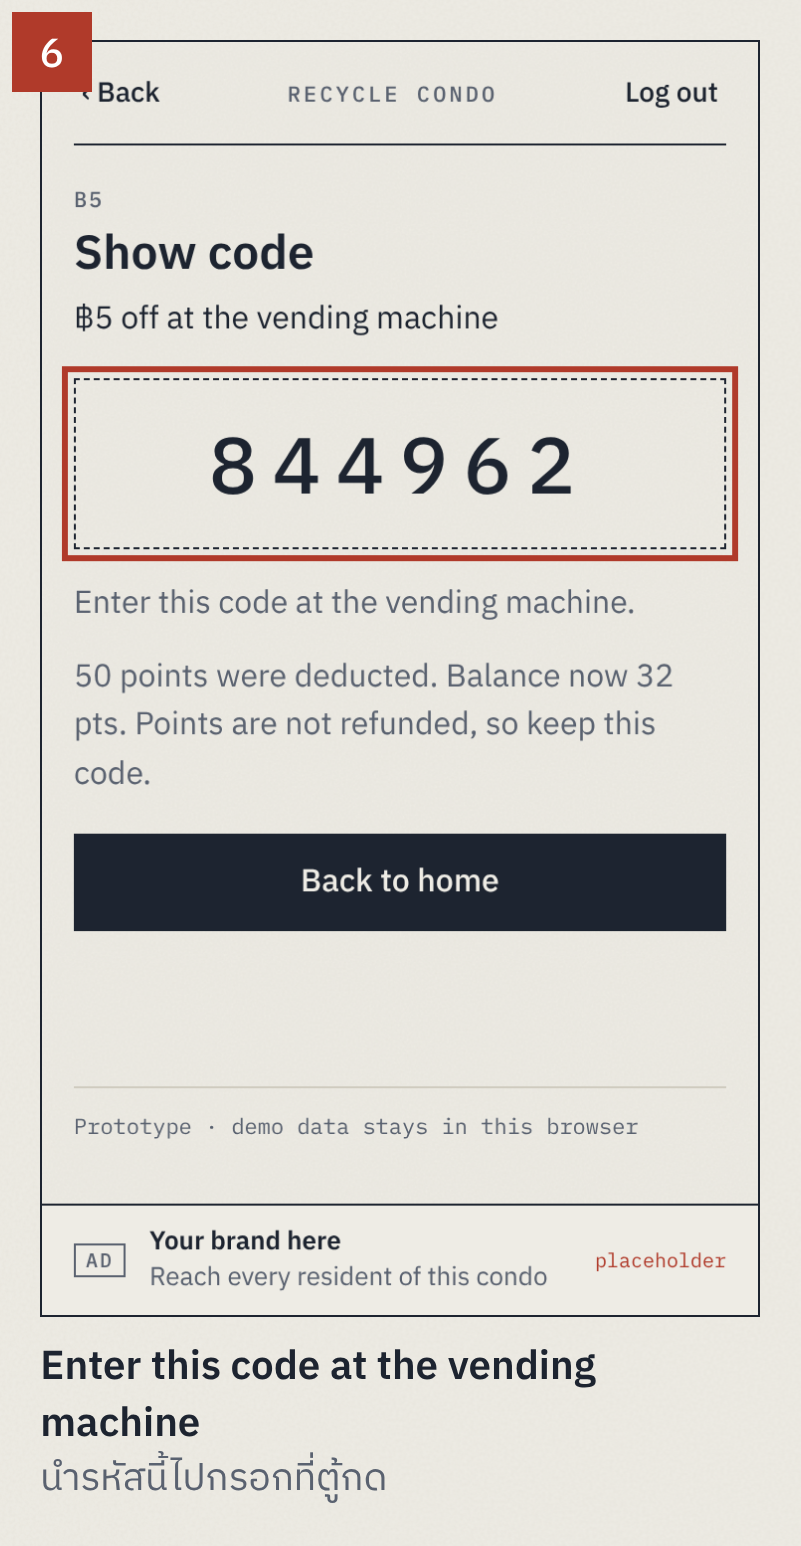
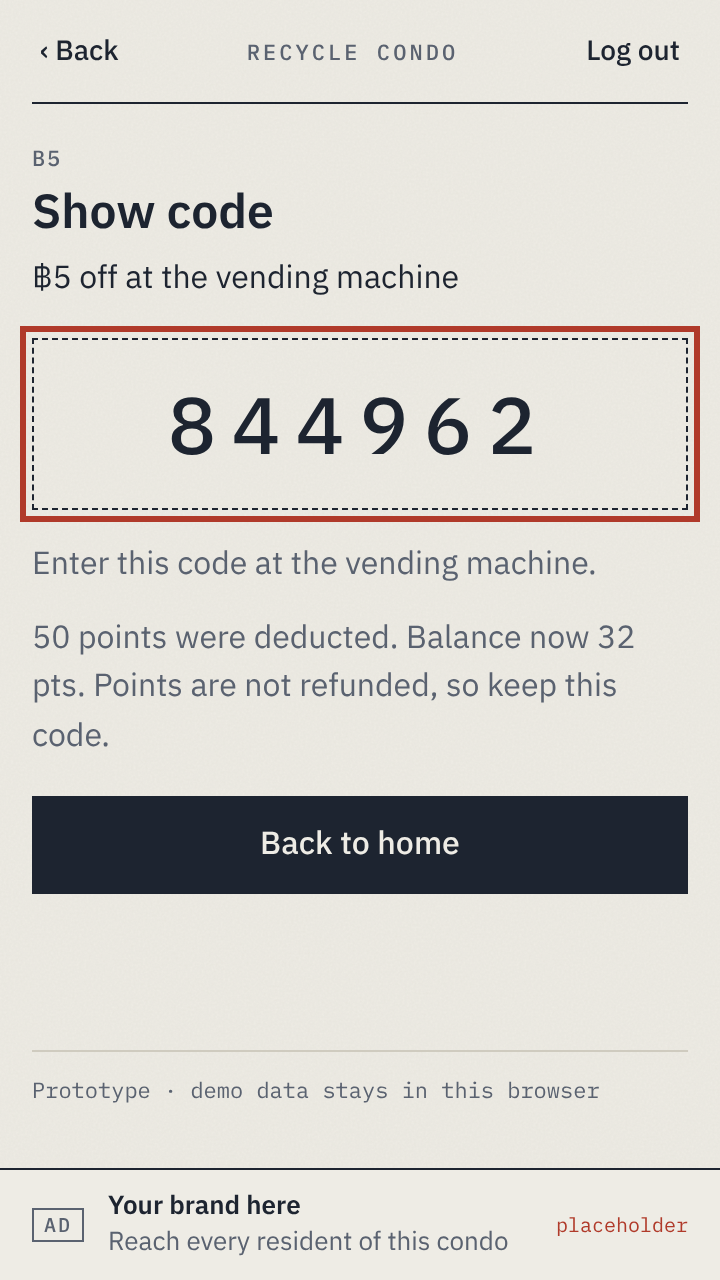
Guide: plain screenshots with the explanations in a text file
Claude-Session: https://claude.ai/code/session_017SG8Pvdfyn3qQ22CNufJqa

diff --git a/webapp/guide/README.md b/webapp/guide/README.md
@@ -1,0 +1,27 @@
+# Recycle Condo: how to use · วิธีใช้งาน
+
+Demo logins · บัญชีทดลอง: `staff / 1234` and `A101 / 1234`
+Red outline on a screenshot = what to tap next · กรอบสีแดง = ปุ่มที่ต้องกดต่อไป
+
+## A. Staff (นิติ): log waste for a room · บันทึกขยะให้ห้อง
+
+| # | Image | English | ไทย |
+|---|-------|---------|-----|
+| 1 | `staff-1.png` | Enter `staff` and `1234`, then tap **Log in**. | ใส่ `staff` และ `1234` แล้วกด **Log in** |
+| 2 | `staff-2.png` | Tap **Log waste**. | กด **Log waste** |
+| 3 | `staff-3.png` | Search for the unit number, then tap it. | ค้นหาเลขห้อง แล้วกดเลือก |
+| 4 | `staff-4.png` | Tap the waste type. | เลือกประเภทขยะ |
+| 5 | `staff-5.png` | Enter the weight in kg, then tap **Review**. | ใส่น้ำหนักเป็น กก. แล้วกด **Review** |
+| 6 | `staff-6.png` | Check the entry, then tap **Save entry**. | ตรวจสอบรายการ แล้วกด **Save entry** |
+| 7 | `staff-7.png` | Points are added to the room. Tap **Add another** or **Home**. | ระบบเพิ่มแต้มให้ห้อง กด **Add another** เพื่อเพิ่มรายการ หรือ **Home** เพื่อกลับหน้าหลัก |
+
+## B. Resident (ลูกบ้าน): redeem points · แลกแต้ม
+
+| # | Image | English | ไทย |
+|---|-------|---------|-----|
+| 1 | `resident-1.png` | Enter your unit number and password, then tap **Log in**. | ใส่เลขห้องและรหัสผ่าน แล้วกด **Log in** |
+| 2 | `resident-2.png` | See your points, then tap **Redeem points**. | ดูแต้มสะสม แล้วกด **Redeem points** |
+| 3 | `resident-3.png` | Choose **Vending discount** or **Merch**. | เลือก **Vending discount** (ส่วนลดตู้กด) หรือ **Merch** (ของที่ระลึก) |
+| 4 | `resident-4.png` | Pick a reward you have enough points for. | เลือกรางวัลที่แต้มพอ |
+| 5 | `resident-5.png` | Check the balance after redeeming, then tap **Redeem**. | เช็คแต้มคงเหลือหลังแลก แล้วกดยืนยัน |
+| 6 | `resident-6.png` | Enter this code at the vending machine. Points are not refunded, so keep the code. | นำรหัสนี้ไปกรอกที่ตู้กด แต้มที่ใช้แล้วไม่คืน เก็บรหัสไว้ |
